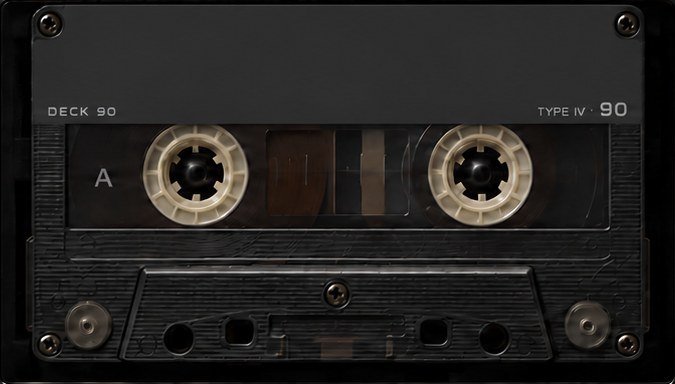
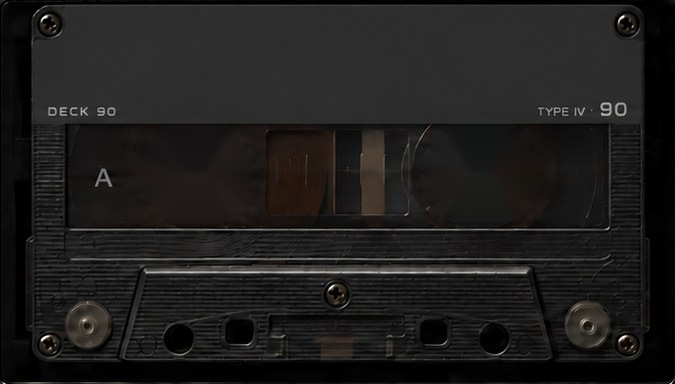
7.4.0: LED CIAN and LED VERDE VU faces, two looks per favourite preset, smaller centred cassette hubs
- LED meters: two rows of glowing square LEDs, −40 to +3 dB; standing up in tall windows (phone)
- Presets 1–5 each turn to a second look when pressed again; C1–C3 untouched
- DECK 90 cassette: photo hubs erased, turning hubs smaller and centred in the window
- README: nine VU faces, LED screenshot, new deck screenshot, presets text

Claude-Session: https://claude.ai/code/session_01CSpiAfwMtvrKp6wf1rN1Pf

Changed region(s): [[0.6222, 0.3125, 0.8089, 0.5938], [0.1867, 0.3125, 0.3733, 0.5938]]

diff --git a/src/js/draw-vu.js b/src/js/draw-vu.js
@@ -487,8 +487,103 @@ function drawVUDuo(canvas, ctx, st) {
   ctx.restore();
 }
 
+// ═══ LED CIAN / LED VERDE (7.4): a stereo LED bar meter, both channels on one wide black strip: 27 rounded
+// segments a row from −40 to +3 dB (the colour of the style up to −5, then amber, then red past 0), dark
+// when off, DECK 90 on top, L and R in front and the scale underneath. One panel for both, like DÚO.
+// Each segment's level, from where the reference puts the figures (segments 0…26):
+const BAR_N = 27, BAR_K = [[0, -40], [4.47, -30], [9.65, -20], [14.8, -10], [18.9, -5], [22.9, 0], [25.8, 3], [26, 3.2]];
+const barDb = k => { for (let i = 1; i < BAR_K.length; i++) if (k <= BAR_K[i][0]) { const [k0, d0] = BAR_K[i - 1], [k1, d1] = BAR_K[i]; return d0 + (d1 - d0) * (k - k0) / (k1 - k0); } return 3.2; };
+const BAR_STYLE = {
+  BARCYAN:  { on: '#6ff5e4', glow: 'rgba(80,240,225,.55)', off: 'rgba(40,120,115,.16)', ink: '#79e9dc', hot: '#ff5a36' },
+  BARGREEN: { on: '#7cf58a', glow: 'rgba(90,240,110,.55)', off: 'rgba(50,130,60,.16)',  ink: '#8de89a', hot: '#ff8a26' },
+};
+function drawVUBar(canvas, ctx, st, skin) {
+  const W = canvas.offsetWidth || 0, H = canvas.offsetHeight || 0;
+  if (W < 60 || H < 30) return;                        // put away (the R panel while one strip shows both)
+  const S = BAR_STYLE[skin] || BAR_STYLE.BARCYAN;
+  const both = canvas.id === 'vuL' && typeof applyModules === 'function' && W / H > 2.2;
+  const rows = both ? [['L', vu.L], ['R', vu.R]] : [[canvas.id === 'vuR' ? 'R' : 'L', st]];
+  if (W / H < 1.3) return drawVUBarTall(canvas, ctx, S, skin, rows, W, H);
+  // the strip: the rows, the scale under them, all centred in the window and as large as it allows
+  const m = Math.max(5, Math.min(12, H * .05)), wx = m, wy = m, ww = W - 2 * m, wh = H - 2 * m;
+  const x0 = wx + ww * .055, x1 = wx + ww * .957, pitch = (x1 - x0) / BAR_N, segW = pitch * .84;
+  const segH = Math.min(segW * .78, wh / (rows.length * 1.25 + 2.3)), rowGap = segH * .32;
+  const blockH = segH * .75 + rows.length * segH + (rows.length - 1) * rowGap + segH * 1.35;
+  const top = wy + (wh - blockH) / 2 + segH * .75;     // first row's top (DECK 90 sits above it)
+  // the glass hugs the strip; the rest of the panel stays dark
+  const gy = Math.max(wy, top - segH * 1.25), gh = Math.min(wy + wh, top - segH * .75 + blockH + segH * .55) - gy;
+  const rowY = i => top + i * (segH + rowGap), scaleY = rowY(rows.length - 1) + segH;
+  const col = k => { const d = barDb(k); return d >= .25 ? ['#ff6a3c', 'rgba(255,90,50,.6)', 'rgba(120,40,20,.30)'] : d >= -5.05 ? ['#ffd45a', 'rgba(255,205,80,.55)', 'rgba(120,90,20,.28)'] : [S.on, S.glow, S.off]; };
+  const fs = Math.max(8, Math.round(Math.min(segH * .62, pitch * .5)));
+  blit(ctx, still('vu-bar:' + canvas.id, W, H, skin + '|' + both, x => {
+    x.fillStyle = '#060707'; x.fillRect(0, 0, W, H);
+    // the window: black glass with a thin lit edge
+    x.fillStyle = '#0a0c0d'; x.beginPath(); x.roundRect(wx, gy, ww, gh, Math.min(10, gh * .08)); x.fill();
+    x.strokeStyle = 'rgba(255,255,255,.16)'; x.lineWidth = 1.5; x.stroke();
+    x.strokeStyle = 'rgba(0,0,0,.8)'; x.lineWidth = 1; x.beginPath(); x.roundRect(wx + 3, gy + 3, ww - 6, gh - 6, Math.min(8, gh * .07)); x.stroke();
+    x.textBaseline = 'middle'; x.textAlign = 'left';
+    x.font = `600 ${Math.max(7, Math.round(fs * .78))}px "Helvetica Neue", Arial, sans-serif`; x.fillStyle = '#868c8f';
+    x.fillText('DECK 90', wx + ww * .028, top - segH * .45);
+    rows.forEach(([name], i) => {
+      x.font = `500 ${Math.round(segH * .95)}px "Helvetica Neue", Arial, sans-serif`; x.fillStyle = S.ink; x.textAlign = 'center';
+      x.fillText(name, wx + ww * .04 - pitch * .1, rowY(i) + segH / 2);
+      for (let k = 0; k < BAR_N; k++) { x.fillStyle = col(k)[2]; x.beginPath(); x.roundRect(x0 + k * pitch, rowY(i), segW, segH, segH * .14); x.fill(); }
+    });
+    // the scale: a short mark and its figure under the segment where each level sits
+    x.font = `500 ${fs}px "Helvetica Neue", Arial, sans-serif`; x.textAlign = 'center';
+    for (const [k, d] of BAR_K.slice(0, 7)) {
+      const cx = x0 + k * pitch + segW / 2, c = d > 0 ? S.hot : d >= -5 ? '#ffd45a' : S.ink;
+      x.strokeStyle = c; x.lineWidth = 1; x.beginPath(); x.moveTo(cx, scaleY + segH * .3); x.lineTo(cx, scaleY + segH * .55); x.stroke();
+      x.fillStyle = c; x.fillText(d > 0 ? '+' + d : d < 0 ? '−' + -d : '0', cx, scaleY + segH * 1.05);
+    }
+    x.fillStyle = '#7d8386'; x.fillText('dB', x0 + BAR_N * pitch + pitch * .2, scaleY + segH * 1.05);
+  }));
+  // what moves: the lit segments, each with its glow (a stamped sprite)
+  rows.forEach(([, s], i) => {
+    for (let k = 0; k < BAR_N; k++) if (s.lvl >= barDb(k)) { const c = col(k); glowCell(ctx, x0 + k * pitch, rowY(i), segW, segH, segH * .14, c[0], Math.max(4, segH * .45), c[1]); }
+  });
+}
+
+// a tall window (the phone, a narrow column): the LEDs stand up, 0 near the top, the scale beside them
+function drawVUBarTall(canvas, ctx, S, skin, rows, W, H) {
+  const m = Math.max(5, Math.min(12, W * .05)), wx = m, wy = m, ww = W - 2 * m, wh = H - 2 * m;
+  const y0 = wy + wh * .12, y1 = wy + wh * .9, pitch = (y1 - y0) / BAR_N, segH = pitch * .8;
+  const fs = Math.max(8, Math.round(Math.min(pitch * 1.25, ww * .075)));
+  const segW = Math.min(ww * .3 / rows.length, pitch * 6), colGap = segW * .25;
+  const cols = rows.length * segW + (rows.length - 1) * colGap, scaleW = fs * 3.2;
+  const cx0 = wx + (ww - cols - scaleW) / 2, colX = i => cx0 + i * (segW + colGap), sx = cx0 + cols + fs * .5;
+  const segY = k => y1 - (k + 1) * pitch + (pitch - segH) / 2;
+  const col = k => { const d = barDb(k); return d >= .25 ? ['#ff6a3c', 'rgba(255,90,50,.6)', 'rgba(120,40,20,.30)'] : d >= -5.05 ? ['#ffd45a', 'rgba(255,205,80,.55)', 'rgba(120,90,20,.28)'] : [S.on, S.glow, S.off]; };
+  const rad = Math.min(segH, segW) * .18;
+  blit(ctx, still('vu-bar:' + canvas.id, W, H, skin + '|tall|' + rows.length, x => {
+    x.fillStyle = '#060707'; x.fillRect(0, 0, W, H);
+    x.fillStyle = '#0a0c0d'; x.beginPath(); x.roundRect(wx, wy, ww, wh, Math.min(10, ww * .05)); x.fill();
+    x.strokeStyle = 'rgba(255,255,255,.16)'; x.lineWidth = 1.5; x.stroke();
+    x.strokeStyle = 'rgba(0,0,0,.8)'; x.lineWidth = 1; x.beginPath(); x.roundRect(wx + 3, wy + 3, ww - 6, wh - 6, Math.min(8, ww * .04)); x.stroke();
+    x.textBaseline = 'middle'; x.textAlign = 'center';
+    x.font = `600 ${Math.max(7, Math.round(fs * .8))}px "Helvetica Neue", Arial, sans-serif`; x.fillStyle = '#868c8f';
+    x.fillText('DECK 90', wx + ww / 2, wy + wh * .06);
+    rows.forEach(([name], i) => {
+      for (let k = 0; k < BAR_N; k++) { x.fillStyle = col(k)[2]; x.beginPath(); x.roundRect(colX(i), segY(k), segW, segH, rad); x.fill(); }
+      x.font = `500 ${Math.round(fs * 1.25)}px "Helvetica Neue", Arial, sans-serif`; x.fillStyle = S.ink;
+      x.fillText(name, colX(i) + segW / 2, wy + wh * .955);
+    });
+    x.font = `500 ${fs}px "Helvetica Neue", Arial, sans-serif`; x.textAlign = 'left';
+    for (const [k, d] of BAR_K.slice(0, 7)) {
+      const cy = y1 - (k + .5) * pitch, c = d > 0 ? S.hot : d >= -5 ? '#ffd45a' : S.ink;
+      x.strokeStyle = c; x.lineWidth = 1; x.beginPath(); x.moveTo(sx - fs * .35, cy); x.lineTo(sx - fs * .05, cy); x.stroke();
+      x.fillStyle = c; x.fillText(d > 0 ? '+' + d : d < 0 ? '−' + -d : '0', sx + fs * .15, cy);
+    }
+    x.fillStyle = '#7d8386'; x.fillText('dB', sx + fs * .15, wy + wh * .955);
+  }));
+  rows.forEach(([, s], i) => {
+    for (let k = 0; k < BAR_N; k++) if (s.lvl >= barDb(k)) { const c = col(k); glowCell(ctx, colX(i), segY(k), segW, segH, rad, c[0], Math.max(4, Math.min(segH, segW) * .9), c[1]); }
+  });
+}
+
 function drawVU(canvas, ctx, st) {
   if (vuSkin === 'DUO') return drawVUDuo(canvas, ctx, st);
+  if (vuSkin === 'BARCYAN' || vuSkin === 'BARGREEN') return drawVUBar(canvas, ctx, st, vuSkin);
   if (vuSkin === 'REEL70') return drawVUClassic(canvas, ctx, st, VU_THEMES.REEL70);
   if (vuSkin === 'BLUE') return drawVUClassic(canvas, ctx, st, VU_THEMES.BLUE);
   if (vuSkin === 'CREAM') return drawVUClassic(canvas, ctx, st, VU_THEMES.CREAM);

diff --git a/src/js/presets.js b/src/js/presets.js
@@ -1,6 +1,7 @@
 'use strict';
 // ═══════════════════════════════════════════════════════════
-//  PRESETS: five favourite looks (1–5, fixed) and three of your own (C1–C3)
+//  PRESETS: five favourite slots (1–5, fixed, two looks each: pressing a slot again turns to its other look)
+//  and three of your own (C1–C3, one look each, as you saved them)
 //  A preset keeps the VU face, the spectrum style and its sensitivity, the screen tone, the VU
 //  calibration, which modules show, and the deck and cassette styles. 1–5 (F1–F5) and C1–C3 (F6–F8)
 //  load; GUARDAR then C1–C3 (or Shift+click, Shift+F6–F8) stores what's on screen there.
@@ -16,7 +17,16 @@ const FACTORY_PRESETS = [
   { name: 'Vidriera',  snap: { vuSkin: 'BLUE',   spectrumSkin: 'SHOWROOM', flSensitivity: 2, mode: 0, cal: 'AUTO', deckDouble: false, tapeStyle: 'CLEAR', mods: presetMods(['vu', 'bpm', 'spectrum', 'tape']) } },
   { name: 'Mastering', snap: { vuSkin: 'MODERN', spectrumSkin: 'RTA',      flSensitivity: 1, mode: 3, cal: 18,     deckDouble: true,  tapeStyle: 'REEL',  mods: presetMods(['vu', 'gonio', 'meters', 'spectrum', 'osc']) } },
 ];
-const vuName = v => ({ MODERN: 'Studio', HIFI90: 'Hi-Fi 90s', REEL70: 'Cinta 70s', BLUE: 'Azul', COBALT: 'Azul intenso', CREAM: 'Crema', DUO: 'Dúo' }[v] || v);
+// each slot's second look (7.4): pressing 1–5 while its look is on screen turns to the other one
+const FACTORY_ALT = [
+  { name: 'Estudio LED',    snap: { vuSkin: 'BARCYAN',  spectrumSkin: 'MODERN',   flSensitivity: 1, mode: 0, cal: 'AUTO', deckDouble: true,  tapeStyle: 'REEL',  mods: presetMods(['vu', 'bpm', 'gonio', 'meters', 'spectrum', 'osc']) } },
+  { name: 'Hi-Fi Spectrum', snap: { vuSkin: 'DUO',      spectrumSkin: 'FLSPEC',   flSensitivity: 1, mode: 0, cal: 'AUTO', deckDouble: true,  tapeStyle: 'REEL',  mods: presetMods(['vu', 'bpm', 'meters', 'spectrum', 'deck']) } },
+  { name: 'Casetera',       snap: { vuSkin: 'DUO',      spectrumSkin: 'FL90',     flSensitivity: 1, mode: 0, cal: 'AUTO', deckDouble: false, tapeStyle: 'REEL',  mods: presetMods(['vu', 'spectrum', 'tape']) } },
+  { name: 'Vidriera cian',  snap: { vuSkin: 'BARCYAN',  spectrumSkin: 'FLSPEC2',  flSensitivity: 2, mode: 0, cal: 'AUTO', deckDouble: false, tapeStyle: 'CD',    mods: presetMods(['vu', 'bpm', 'spectrum', 'tape']) } },
+  { name: 'Mastering LED',  snap: { vuSkin: 'BARGREEN', spectrumSkin: 'SPECTRO',  flSensitivity: 1, mode: 3, cal: 18,     deckDouble: true,  tapeStyle: 'REEL',  mods: presetMods(['vu', 'gonio', 'meters', 'spectrum', 'osc']) } },
+];
+const factoryLooks = n => [FACTORY_PRESETS[n - 1], FACTORY_ALT[n - 1]].filter(Boolean);
+const vuName = v => ({ MODERN: 'Studio', HIFI90: 'Hi-Fi 90s', REEL70: 'Cinta 70s', BLUE: 'Azul', COBALT: 'Azul intenso', CREAM: 'Crema', DUO: 'Dúo', BARCYAN: 'LED cian', BARGREEN: 'LED verde' }[v] || v);
 const skinName = s => (SPECTRUM_SKINS.find(x => x[0] === s) || [s, s])[1];
 
 function presetSnapshot() {
@@ -40,7 +50,12 @@ let customs = loadCustoms();
 let presetSaveArmed = false;
 function storeCustoms() { try { localStorage.setItem(PRESETS_KEY, JSON.stringify(customs)); } catch (_) {} }
 // slot ids: '1'…'5' the favourites, 'c1'…'c3' yours
-const presetOf = id => /^c[1-3]$/.test(id) ? customs[Number(id[1]) - 1] : FACTORY_PRESETS[Number(id) - 1];
+// a favourite slot gives the look after the one on screen (the first if neither is)
+function factoryNext(n) {
+  const looks = factoryLooks(n), now = presetSnapshot(), on = looks.findIndex(l => sameSnap(l.snap, now));
+  return looks[on >= 0 ? (on + 1) % looks.length : 0];
+}
+const presetOf = id => /^c[1-3]$/.test(id) ? customs[Number(id[1]) - 1] : factoryNext(Number(id));
 const presetLabel = id => /^c/.test(id) ? 'C' + id[1] : String(id);
 
 function applyPreset(id) {
@@ -48,7 +63,7 @@ function applyPreset(id) {
   if (!p) { toast('C' + id[1] + ' está vacío · <span>GUARDAR</span> y tocá C' + id[1] + ' para guardar ahí lo que ves', 3000); return; }
   const s = p.snap;
   if (modsBeforeTape) modsBeforeTape = null;
-  if (['MODERN', 'HIFI90', 'REEL70', 'BLUE', 'COBALT', 'CREAM', 'DUO'].includes(s.vuSkin)) setVUSkin(s.vuSkin);
+  if (VU_SKINS.includes(s.vuSkin)) setVUSkin(s.vuSkin);
   if (SPECTRUM_SKINS.some(x => x[0] === s.spectrumSkin)) setSpectrumSkin(s.spectrumSkin);
   if ([0, 1, 2].includes(s.flSensitivity)) setFlSensitivity(s.flSensitivity);
   if (Number.isInteger(s.mode)) setSpectrumMode(s.mode);
@@ -62,18 +77,22 @@ function applyPreset(id) {
   applyModules(); savePrefs(); syncConsole();
   if (typeof showSkinMenu === 'function' && skinMenu.classList.contains('show')) showSkinMenu(false);
   if (!running) drawIdle();
-  toast('PRESET ' + presetLabel(id) + ' · <span>' + p.name + '</span>', 1600);
+  const looks = /^c/.test(id) ? null : factoryLooks(Number(id));
+  toast('PRESET ' + presetLabel(id) + ' · <span>' + p.name + '</span>' + (looks && looks.length > 1 ? ' · ' + (looks.indexOf(p) + 1) + '/' + looks.length + ' · otra vez → ' + looks[(looks.indexOf(p) + 1) % looks.length].name : ''), 2200);
 }
 function savePreset(id) {
   presetSaveArmed = false;
   if (!/^c[1-3]$/.test(id)) { syncConsole(); toast('Los presets 1–5 son fijos · guardá tus looks en <span>C1, C2 o C3</span>', 3000); return; }
   const snap = presetSnapshot();
-  const fav = FACTORY_PRESETS.findIndex(f => sameSnap(f.snap, snap));
-  customs[Number(id[1]) - 1] = { name: fav >= 0 ? FACTORY_PRESETS[fav].name : vuName(snap.vuSkin) + ' · ' + skinName(snap.spectrumSkin), snap };
+  const fav = FACTORY_PRESETS.concat(FACTORY_ALT).find(f => sameSnap(f.snap, snap));
+  customs[Number(id[1]) - 1] = { name: fav ? fav.name : vuName(snap.vuSkin) + ' · ' + skinName(snap.spectrumSkin), snap };
   storeCustoms(); syncConsole();
   toast('Guardado en ' + presetLabel(id) + ' · <span>' + customs[Number(id[1]) - 1].name + '</span>', 2200);
 }
-function presetMatches(id) { const p = presetOf(id); return !!p && sameSnap(presetSnapshot(), p.snap); }
+function presetMatches(id) {
+  if (/^c/.test(id)) { const p = presetOf(id); return !!p && sameSnap(presetSnapshot(), p.snap); }
+  const now = presetSnapshot(); return factoryLooks(Number(id)).some(l => sameSnap(l.snap, now));
+}
 // the console segment: 1–5 and C1–C3 load (Shift+click on C saves), GUARDAR arms a save
 function presetButton(v, shift) {
   if (v === 'save') {
@@ -87,8 +106,9 @@ function presetButton(v, shift) {
 function presetTitles() {
   document.querySelectorAll('.seg[data-group="preset"] button[data-v]').forEach(b => {
     const id = b.dataset.v; if (id === 'save') return;
-    const p = presetOf(id), custom = /^c/.test(id), f = custom ? 5 + Number(id[1]) : Number(id);
+    const custom = /^c/.test(id), p = custom ? presetOf(id) : null, f = custom ? 5 + Number(id[1]) : Number(id);
     b.classList.toggle('empty', custom && !p);
-    b.title = (custom ? 'Tu preset ' : 'Preset ') + presetLabel(id) + ': ' + (p ? p.name : 'vacío') + ' (F' + f + ')' + (custom ? ' · Shift+clic guarda acá lo que ves' : '');
+    b.title = custom ? 'Tu preset ' + presetLabel(id) + ': ' + (p ? p.name : 'vacío') + ' (F' + f + ') · Shift+clic guarda acá lo que ves'
+      : 'Preset ' + id + ': ' + factoryLooks(Number(id)).map(l => l.name).join(' / ') + ' (F' + f + ') · otra vez: el otro look';
   });
 }

diff --git a/src/js/deck90.js b/src/js/deck90.js
@@ -42,8 +42,9 @@ function drawDeck90(ctx, X, Y, W, H, d, levels, running, part) {
   const kRow = kW * keys.length + kGap * (keys.length - 1), kX0 = dX + (dW - kRow) / 2;
   const kbD = P(200), ksD = P(158), kbX = rX + P(127.5), knY = Y + P(285);
   const [rl, rr2] = reelRadii(d.pos), R_FULL = 128;
-  // the hubs' true centres (where each looks the same turned 60°): the spindles the reels turn on
-  const HUBS = [[195.5, 172.45], [480.33, 172.38]];
+  // the spindles the reels turn on: the photo's hub positions across, centred in the window's height (7.4: the
+  // hubs are smaller, with a margin to the label above and the window's edge below; the photo's own were erased)
+  const HUBS = [[195.5, 176.5], [480.33, 176.5]], HUB_D = 88;
 
   if (still) {
     // ── the faceplate: brushed black aluminium, a lit top edge, a dark cut all round
@@ -151,11 +152,11 @@ function drawDeck90(ctx, X, Y, W, H, d, levels, running, part) {
   stamp(ctx, 'd90-packs:' + d.side, [Math.round(P(packs[0][2]) * 4), Math.round(P(packs[1][2]) * 4), d.side].join('|'), cX + P(band[0]), cY + P(band[1]), P(band[2]), P(band[3]), c => {
     const pack = (alpha) => packs.forEach(([px, py, r]) => {
       const x = cX + P(px), y = cY + P(py), R = P(r);
-      const g = c.createRadialGradient(x, y, P(50), x, y, R);
+      const g = c.createRadialGradient(x, y, P(HUB_D / 2), x, y, R);
       g.addColorStop(0, `rgba(30,20,14,${alpha})`); g.addColorStop(0.75, `rgba(52,36,25,${alpha})`); g.addColorStop(1, `rgba(78,56,38,${alpha})`);
       c.beginPath(); c.arc(x, y, R, 0, Math.PI * 2); c.fillStyle = g; c.fill();
       c.strokeStyle = `rgba(255,225,190,${alpha * 0.07})`; c.lineWidth = Math.max(0.5, P(1));   // the wound layers
-      for (let q = P(58); q < R - P(3); q += P(6)) { c.beginPath(); c.arc(x, y, q, 0, Math.PI * 2); c.stroke(); }
+      for (let q = P(HUB_D / 2 + 6); q < R - P(3); q += P(6)) { c.beginPath(); c.arc(x, y, q, 0, Math.PI * 2); c.stroke(); }
       c.beginPath(); c.arc(x, y, R - P(1), 0, Math.PI * 2);                                     // the pack's edge catches the light
       c.strokeStyle = `rgba(150,112,80,${alpha * 0.8})`; c.lineWidth = Math.max(0.8, P(2.5)); c.stroke();
     });
@@ -175,15 +176,15 @@ function drawDeck90(ctx, X, Y, W, H, d, levels, running, part) {
   });
   // the hubs turn exactly about their centres (the image is centred on them to a fraction of a pixel and
   // made six-fold symmetric); the light on them doesn't turn, as on a real reel
-  const hubD = P(108);
+  const hubD = P(HUB_D), hl = HUB_D * 50 / 108;
   [[HUBS[0][0], HUBS[0][1], d.ang[0]], [HUBS[1][0], HUBS[1][1], d.ang[1]]].forEach(([hx, hy, a], i) => {
     const x = cX + P(hx), y = cY + P(hy);
     ctx.save(); ctx.translate(x, y); ctx.rotate(a);
     ctx.drawImage(D90.hub, -hubD / 2, -hubD / 2, hubD, hubD); ctx.restore();
-    stamp(ctx, 'd90-hublight:' + d.side + i, '', x - P(51), y - P(51), P(102), P(102), c => {
-      const light = c.createLinearGradient(x - P(40), y - P(40), x + P(40), y + P(40));
+    stamp(ctx, 'd90-hublight:' + d.side + i, '', x - P(hl + 1), y - P(hl + 1), P(hl * 2 + 2), P(hl * 2 + 2), c => {
+      const light = c.createLinearGradient(x - P(hl * .8), y - P(hl * .8), x + P(hl * .8), y + P(hl * .8));
       light.addColorStop(0, 'rgba(255,248,235,.16)'); light.addColorStop(.45, 'rgba(255,255,255,0)'); light.addColorStop(1, 'rgba(0,0,0,.24)');
-      c.beginPath(); c.arc(x, y, P(50), 0, Math.PI * 2); c.fillStyle = light; c.fill();
+      c.beginPath(); c.arc(x, y, P(hl), 0, Math.PI * 2); c.fillStyle = light; c.fill();
     });
   });
   if (d.side !== 'A') {                                    // the tape is printed with side A: deck B shows B

diff --git a/src/remote/index.html b/src/remote/index.html
@@ -40,7 +40,7 @@
 <div class="sheet" id="sheet">
   <div class="sheet-card">
     <div class="sheet-head">AJUSTES DEL CELULAR <button id="sheetClose">✕</button></div>
-    <div class="opt" data-k="vu"><span>VU</span><button data-v="pc">COMO LA PC</button><button data-v="MODERN">STUDIO</button><button data-v="HIFI90">HI-FI 90s</button><button data-v="REEL70">CINTA 70s</button><button data-v="BLUE">AZUL</button><button data-v="COBALT">AZUL INT.</button><button data-v="CREAM">CREMA</button><button data-v="DUO">DÚO</button></div>
+    <div class="opt" data-k="vu"><span>VU</span><button data-v="pc">COMO LA PC</button><button data-v="MODERN">STUDIO</button><button data-v="HIFI90">HI-FI 90s</button><button data-v="REEL70">CINTA 70s</button><button data-v="BLUE">AZUL</button><button data-v="COBALT">AZUL INT.</button><button data-v="CREAM">CREMA</button><button data-v="DUO">DÚO</button><button data-v="BARCYAN">LED CIAN</button><button data-v="BARGREEN">LED VERDE</button></div>
     <div class="opt" data-k="tape"><span>CINTA</span><button data-v="pc">COMO LA PC</button><button data-v="REEL">REEL</button><button data-v="CLEAR">CLEAR</button></div>
     <div class="opt" data-k="sens"><span>FL 90s</span><button data-v="pc">COMO LA PC</button><button data-v="0">N</button><button data-v="1">H</button><button data-v="2">MAX</button></div>
     <div class="opt" data-k="flc"><span>COLOR FL</span><button data-v="pc">COMO LA PC</button><button data-v="GREEN">VERDE</button><button data-v="TURQ">TURQUESA</button><button data-v="AMBER">ÁMBAR</button><button data-v="SPEC">SPECTRUM</button><button data-v="SPEC2">CIAN</button></div>

diff --git a/src/js/controls.js b/src/js/controls.js
@@ -167,7 +167,7 @@ document.addEventListener('keydown', e => {
     escape: () => { if (skinMenu.classList.contains('show')) { showSkinMenu(false); return; } if (running && !document.fullscreenElement) stopAudio(); },
     f: toggleFullscreen,
     t: cycleSkin,
-    v: () => { const o = ['MODERN', 'HIFI90', 'REEL70', 'BLUE', 'COBALT', 'CREAM', 'DUO']; setVUSkin(o[(o.indexOf(vuSkin) + 1) % o.length]); savePrefs(); syncConsole(); },
+    v: () => { const o = VU_SKINS; setVUSkin(o[(o.indexOf(vuSkin) + 1) % o.length]); savePrefs(); syncConsole(); },
     k: () => { setFlSensitivity(); savePrefs(); syncConsole(); },
     n: () => { setSpectrumMode(spectrumModeIndex + 1); savePrefs(); syncConsole(); },
     a: () => setDrawer(!drawerOpen),
@@ -184,7 +184,7 @@ document.addEventListener('keydown', e => {
 const prefs = loadPrefs();
 setSpectrumMode(Number.isInteger(prefs.mode) ? prefs.mode : 0);
 setFlSensitivity(Number.isInteger(prefs.flSensitivity) ? prefs.flSensitivity : 1);
-setVUSkin(['HIFI90', 'REEL70', 'BLUE', 'COBALT', 'CREAM', 'DUO'].includes(prefs.vuSkin) ? prefs.vuSkin : 'MODERN');
+setVUSkin(VU_SKINS.includes(prefs.vuSkin) ? prefs.vuSkin : 'MODERN');
 setSpectrumSkin(SPECTRUM_SKINS.some(s => s[0] === prefs.spectrumSkin) ? prefs.spectrumSkin : 'MODERN');
 if ([18, 14, 10].includes(prefs.cal)) vuCal = prefs.cal;
 if (prefs.mods && typeof prefs.mods === 'object') {

diff --git a/src/js/audio.js b/src/js/audio.js
@@ -391,9 +391,9 @@ function applyModules() {
   document.querySelectorAll('[data-mod]').forEach(e => e.classList.toggle('mod-off', !mods[e.dataset.mod]));
   const row = document.querySelector('.main-row');
   row.classList.toggle('no-vu', !mods.vu);
-  row.classList.toggle('vu-duo', vuSkin === 'DUO');               // both meters in one wide panel
+  row.classList.toggle('vu-duo', vuWide(vuSkin));               // both meters in one wide panel
   const vuLabel = document.querySelector('.panel[data-mod="vu"] > .panel-label');
-  if (vuLabel) vuLabel.textContent = vuSkin === 'DUO' ? 'L · R' : 'L';
+  if (vuLabel) vuLabel.textContent = vuWide(vuSkin) ? 'L · R' : 'L';
   row.classList.toggle('empty', !mods.vu && !mods.bpm && !mods.gonio);
   document.querySelector('.rack-unit').classList.toggle('no-bottom', !mods.spectrum && !mods.osc && !mods.deck && !mods.tape);
   // one deck: its panel asks for more height, so the deck can grow across the width too

diff --git a/src/js/core.js b/src/js/core.js
@@ -167,8 +167,11 @@ function setFlSensitivity(next){
   if (!running && typeof drawIdle === 'function') drawIdle();
 }
 
+// every VU face, in the order V steps through them; the wide ones show both meters in one panel
+const VU_SKINS = ['MODERN', 'HIFI90', 'REEL70', 'BLUE', 'COBALT', 'CREAM', 'DUO', 'BARCYAN', 'BARGREEN'];
+const vuWide = s => s === 'DUO' || s === 'BARCYAN' || s === 'BARGREEN';
 function setVUSkin(skin){
-  const duo = (skin === 'DUO') !== (vuSkin === 'DUO');
+  const duo = vuWide(skin) !== vuWide(vuSkin);
   vuSkin = skin;
   if (duo && typeof applyModules === 'function') applyModules();   // DÚO puts both meters in the L panel
   if (!running && typeof drawIdle === 'function') drawIdle();

diff --git a/src/index.html b/src/index.html
@@ -140,6 +140,8 @@
         <button data-v="COBALT">AZUL INT.</button>
         <button data-v="CREAM">CREMA</button>
         <button data-v="DUO">DÚO</button>
+        <button data-v="BARCYAN">LED CIAN</button>
+        <button data-v="BARGREEN">LED VERDE</button>
       </div>
       <div class="seg" data-group="cal" title="Calibración del VU: dónde cae el 0 (C)">
         <span class="seg-label">0 VU</span>

diff --git a/README.en.md b/README.en.md
@@ -39,11 +39,13 @@ From then on it **updates itself**: when a new release is out it says so, and on
 
 ![A wide window: AZUL INTENSO VU meters, FL 90s and the wide CD-90](docs/screenshots/wide.jpg)
 
-**Seven VU faces:** STUDIO, HI-FI 90s, CINTA 70s, AZUL, AZUL INTENSO and CREMA, and DÚO, both meters side by side on one wide cream face scaled −60 to +3 dB, like a cassette deck's level meter.
+**Nine VU faces:** STUDIO, HI-FI 90s, CINTA 70s, AZUL, AZUL INTENSO and CREMA; DÚO, both meters side by side on one wide cream face scaled −60 to +3 dB, like a cassette deck's level meter; and LED CIAN and LED VERDE, two rows of glowing square LEDs on black glass.
 
 ![The six VU faces](docs/screenshots/vu-faces.jpg)
 
 ![DÚO: both meters on one wide face](docs/screenshots/vu-duo.jpg)
+
+![LED CIAN and LED VERDE](docs/screenshots/vu-led.jpg)
 
 **Twelve spectrum styles,** from a mini system's fluorescent display to a studio's third-octave analyzer; the newest, FL SPECTRUM and FL SPECTRUM CIAN, are the classic green turning yellow and orange at the top, or turquoise with each bar's tip paler, both with orange peaks and a PEAK HOLD lamp.
 
@@ -108,7 +110,7 @@ From then on it **updates itself**: when a new release is out it says so, and on
   - Shows the title, artist and cover from the system's media session: Spotless, Spotify, a browser tab (YouTube, SoundCloud…), Apple Music or any player that reports to Windows. The one that's playing wins (Spotless first if several play). Browser tab titles are cleaned up into the song and the artist.
   - The deck keys control the player: play/pause, stop, next and previous.
 - **Modules.** Every module can be switched off, and the rest grow to fill the space.
-- **Presets: five favourites and three of your own.** Each keeps a whole look: VU face, spectrum style and sensitivity, screen tone, VU calibration, the modules shown, and the deck and cassette styles. 1–5 (F1–F5) are fixed: Estudio, Hi-Fi 90s, Cinta 70s, Vidriera and Mastering. C1–C3 (F6–F8) are yours: GUARDAR then C1–C3 (or Shift+click, Shift+F6–F8) stores what's on screen there. The one matching the screen lights up.
+- **Presets: five favourites and three of your own.** Each keeps a whole look: VU face, spectrum style and sensitivity, screen tone, VU calibration, the modules shown, and the deck and cassette styles. 1–5 (F1–F5) are fixed, two looks each (press again for the other): Estudio / Estudio LED, Hi-Fi 90s / Hi-Fi Spectrum, Cinta 70s / Casetera, Vidriera / Vidriera cian, Mastering / Mastering LED. C1–C3 (F6–F8) are yours: GUARDAR then C1–C3 (or Shift+click, Shift+F6–F8) stores what's on screen there. The one matching the screen lights up.
 - **Clock and weather in the header.** With the metal frames, the display at the top spans the header: the time in the decks' 7-segment digits with the day and date on its left, the song in the middle, and on its right the weather where you are: an FL icon, the temperature, the sky, the city and today's high and low. Type your city in the ⚙ drawer (RELOJ). The weather comes from [Open-Meteo](https://open-meteo.com) every 15 minutes: only the city's name (once, to find it) and its coordinates are sent there. RELOJ also turns it into just the clock, or off.
 - **The frame of a premium '90s deck.** MARCO in the ⚙ drawer: brushed TITANIO, NEGRO or CHAMPAGNE plates with every display behind glass in a polished bevel and its name engraved above it, or the CLÁSICO dark rack.
 - **Light on the machine.** What doesn't move in a display is painted once and copied each frame; minimized or in the tray nothing is drawn (measuring goes on); at most 60 frames a second; and with a song paused, once everything has settled, nothing is drawn until something moves again.
@@ -177,7 +179,7 @@ The first time, Windows asks whether Deck 90 may use the network: allow it on **
 | `P` | Mini mode (always on top) / back |
 | `T` | Spectrum style (twelve) |
 | `K` | FL sensitivity |
-| `V` | VU face (seven) |
+| `V` | VU face (nine) |
 | `C` | VU calibration |
 | `N` | Display mode (STD / ANALOG / CRT / OLED) |
 | `Z` | Cassette only |

diff --git a/README.md b/README.md
@@ -57,7 +57,7 @@ El **SO‑90 REEL** es un casete de aluminio con bobinas abiertas doradas sobre 
 
 ![Ventana ancha: vúmetros azul intenso, FL 90s y el CD-90 ancho](docs/screenshots/wide.jpg)
 
-### Siete caras de vúmetro
+### Nueve caras de vúmetro
 
 Cada aguja tiene balística de resorte y amortiguación, como el instrumento real. CINTA 70s, AZUL, AZUL INTENSO y CREMA usan la escala clásica de −20 a +3 VU con la separación del instrumento; STUDIO y HI‑FI 90s suman una barra de LED. El 0 VU se calibra en AUTO, −18, −14 o −10 dBFS.
 
@@ -67,15 +67,19 @@ Y la séptima, **DÚO**: los dos vúmetros lado a lado en una sola cara crema an
 
 ![DÚO: los dos vúmetros en una sola cara ancha](docs/screenshots/vu-duo.jpg)
 
+Y dos de LED, **LED CIAN** y **LED VERDE**: los dos canales en dos filas de LEDs cuadrados que brillan sobre vidrio negro, de −40 a +3 dB, ámbar desde −5 y rojo arriba de 0.
+
+![LED CIAN y LED VERDE](docs/screenshots/vu-led.jpg)
+
 ### Doce estilos de analizador de espectro
 
 Del display fluorescente de un minicomponente al analizador de tercio de octava de un estudio. Los más nuevos, FL SPECTRUM y FL SPECTRUM CIAN: el clásico verde que se pone amarillo y naranja arriba, o turquesa con la punta de cada barra más clara, los dos con picos naranjas y su lámpara PEAK HOLD. La tecla `T` los recorre y el botón MÁS ▾ los lista. Los de estilo hardware (FL, LED, LCD, RTA) responden a la sensibilidad SENS (tecla `K`).
 
 ![Los doce estilos de espectro](docs/screenshots/spectrums.jpg)
 
-### Cinco looks listos y tres tuyos
+### Diez looks listos y tres tuyos
 
-Cada look guarda todo: cara del vúmetro, estilo de espectro y sensibilidad, tono de pantalla, calibración, módulos visibles y estilo de casetera. Los cinco de fábrica están en `F1`–`F5`; en C1–C3 (`F6`–`F8`) guardás los tuyos.
+Cada look guarda todo: cara del vúmetro, estilo de espectro y sensibilidad, tono de pantalla, calibración, módulos visibles y estilo de casetera. Los cinco de fábrica están en `F1`–`F5` y cada uno tiene dos looks: tocalo otra vez y pasa al otro (Estudio / Estudio LED, Hi-Fi 90s / Hi-Fi Spectrum, Cinta 70s / Casetera, Vidriera / Vidriera cian, Mastering / Mastering LED). En C1–C3 (`F6`–`F8`) guardás los tuyos, y esos no cambian.
 
 ![Los cinco looks de fábrica: Estudio, Hi-Fi 90s, Cinta 70s, Vidriera y Mastering](docs/screenshots/looks.jpg)
 
@@ -116,7 +120,7 @@ Cada tema escuchado más de 30 segundos queda registrado con su loudness, LRA, p
 ## Todas las funciones
 
 - **Audio del sistema sin configurar nada.** En Windows usa la captura de loopback WASAPI: sin cable virtual (VB‑Cable, Voicemeeter) y sin ventanas para elegir. En Linux usa la fuente *Monitor* de PulseAudio o PipeWire. También puede medir el micrófono.
-- **Vúmetros** con balística de resorte y amortiguación, siete caras (DÚO pone los dos en una sola cara ancha) y calibración del 0 VU en AUTO, −18, −14 o −10 dBFS.
+- **Vúmetros** con balística de resorte y amortiguación, nueve caras (DÚO, LED CIAN y LED VERDE ponen los dos canales en una sola cara ancha) y calibración del 0 VU en AUTO, −18, −14 o −10 dBFS.
 - **Loudness:**
   - LUFS momentáneo, de corto plazo e integrado (ITU‑R BS.1770 / EBU R128, con filtro K y compuerta).
   - El LUFS integrado y el rango de loudness (LRA, EBU Tech 3342) vuelven a cero con cada tema nuevo.
@@ -149,7 +153,7 @@ Cada tema escuchado más de 30 segundos queda registrado con su loudness, LRA, p
 | `P` | Modo mini (siempre arriba) / volver |
 | `T` | Estilo de espectro (doce) |
 | `K` | Sensibilidad del FL |
-| `V` | Cara del vúmetro (siete) |
+| `V` | Cara del vúmetro (nueve) |
 | `C` | Calibración del vúmetro |
 | `N` | Tono de pantalla (STD / ANALOG / CRT / OLED) |
 | `Z` | Solo la cinta |

diff --git a/CHANGELOG.md b/CHANGELOG.md
@@ -4,6 +4,11 @@
 
 ### Added
 - **DÚO, a seventh VU face** (⚙ → VU → DÚO, or `V`): both meters side by side on one wide backlit cream face, like a cassette deck's level meter. A straight scale from −60 to +3 dB (0 and +3 in red) whose marks all lean toward the needles' pivot under the window, dB under each scale, LEVEL L and LEVEL R, DECK 90 in the middle, in a black brushed frame with a brass bevel. The L panel takes the whole width (the R panel is put away); on the phone each meter shows on its own.
+- **LED CIAN and LED VERDE, VU faces eight and nine**: both channels as two rows of glowing square LEDs on black glass, −40 to +3 dB, turning amber from −5 and red above 0, the scale in the meter's colour underneath. Like DÚO they take the whole width (and show one meter each on the phone).
+- **Each favourite preset has a second look.** Pressing 1–5 (F1–F5) while its look is on screen turns to the other one, and back: 1 Estudio / Estudio LED, 2 Hi-Fi 90s / Hi-Fi Spectrum (DÚO with FL SPECTRUM), 3 Cinta 70s / Casetera (DÚO, FL 90s and the SO-90 REEL), 4 Vidriera / Vidriera cian (LED CIAN, FL SPECTRUM CIAN and the CD-90), 5 Mastering / Mastering LED (LED VERDE and the spectrogram). The button lights with either; its tooltip names both and the message says which one it is (1/2, 2/2). Your C1–C3 stay exactly as you saved them.
+
+### Changed
+- **The DECK 90 cassette's hubs are smaller and centred in the window**, with a margin to the label above and to the window's edge below (the photo's own hubs were taken out, so only the turning ones show).
 
 ## 7.3.0
 
